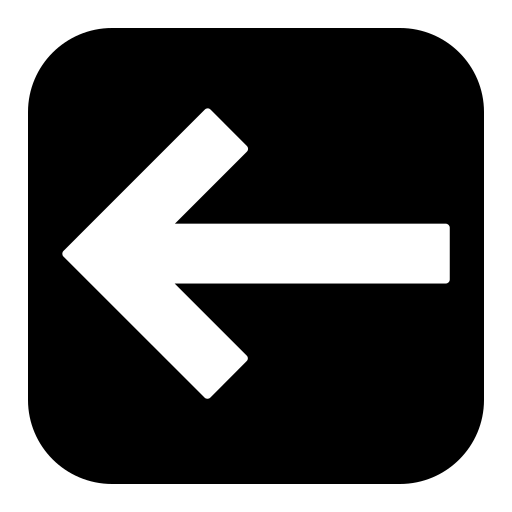
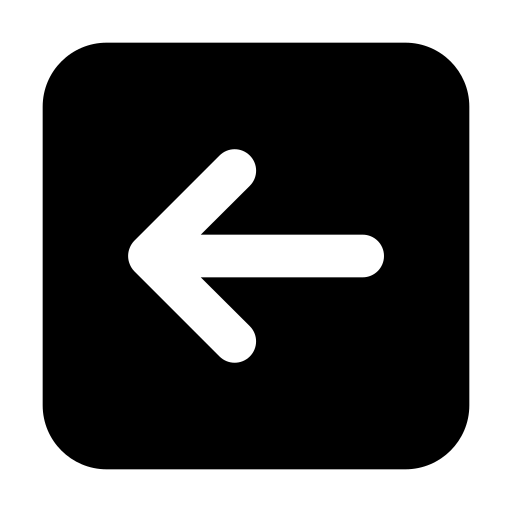
28/06 | 09:03

Changed region(s): [[0.0312, 0.0312, 0.9688, 0.9688]]

diff --git a/src/components/AulaComponent.vue b/src/components/AulaComponent.vue
@@ -1,3 +1,6 @@
+<script setup>
+</script>
+
 <template>
     <main>
         <section>
@@ -5,15 +8,19 @@
         </section>
 
         <section>
-            <RouterLink to="/" class="voltar" ><img src="../assets/seta-voltar.png" alt="voltar" width="35" height="35"></RouterLink>
+            <RouterLink to="/">
+                <picture>
+                    <source srcset="../assets/seta-voltar-white.png" media="(prefers-color-scheme:dark)" />
+                    <img src="../assets/seta-voltar.png" alt="voltar" width="35" height="35">
+                </picture>
+            </RouterLink>
         </section>
     </main>
 </template>
 
 <style scoped>
-
 .voltar {
     cursor: pointer;
 }
-
 </style>
+

diff --git a/src/components/PicComponent.vue b/src/components/PicComponent.vue
@@ -5,15 +5,18 @@
         </section>
 
         <section>
-            <RouterLink to="/" class="voltar" ><img src="../assets/seta-voltar.png" alt="voltar" width="35" height="35"></RouterLink>
+            <RouterLink to="/">
+                <picture>
+                    <source srcset="../assets/seta-voltar-white.png" media="(prefers-color-scheme:dark)" />
+                    <img src="../assets/seta-voltar.png" alt="voltar" width="35" height="35">
+                </picture>
+            </RouterLink>
         </section>
     </main>
 </template>
 
 <style scoped>
-
 .voltar {
     cursor: pointer;
 }
-
 </style>

diff --git a/src/components/SobreComponent.vue b/src/components/SobreComponent.vue
@@ -5,15 +5,18 @@
         </section>
 
         <section>
-            <RouterLink to="/" class="voltar" ><img src="../assets/seta-voltar.png" alt="voltar" width="35" height="35"></RouterLink>
+            <RouterLink to="/">
+                <picture>
+                    <source srcset="../assets/seta-voltar-white.png" media="(prefers-color-scheme:dark)" />
+                    <img src="../assets/seta-voltar.png" alt="voltar" width="35" height="35">
+                </picture>
+            </RouterLink>
         </section>
     </main>
 </template>
 
 <style scoped>
-
 .voltar {
     cursor: pointer;
 }
-
 </style>

diff --git a/src/components/ProjetoComponent.vue b/src/components/ProjetoComponent.vue
@@ -5,7 +5,12 @@
         </section>
 
         <section>
-            <RouterLink to="/" class="voltar" ><img src="../assets/seta-voltar.png" alt="voltar" width="35" height="35"></RouterLink>
+            <RouterLink to="/">
+                <picture>
+                    <source srcset="../assets/seta-voltar-white.png" media="(prefers-color-scheme:dark)" />
+                    <img src="../assets/seta-voltar.png" alt="voltar" width="35" height="35">
+                </picture>
+            </RouterLink>
         </section>
     </main>
 </template>

diff --git a/src/App.vue b/src/App.vue
@@ -1,5 +1,4 @@
 <script setup>
-import Home from '@/router/Home.vue'
 </script>
 
 <template>
